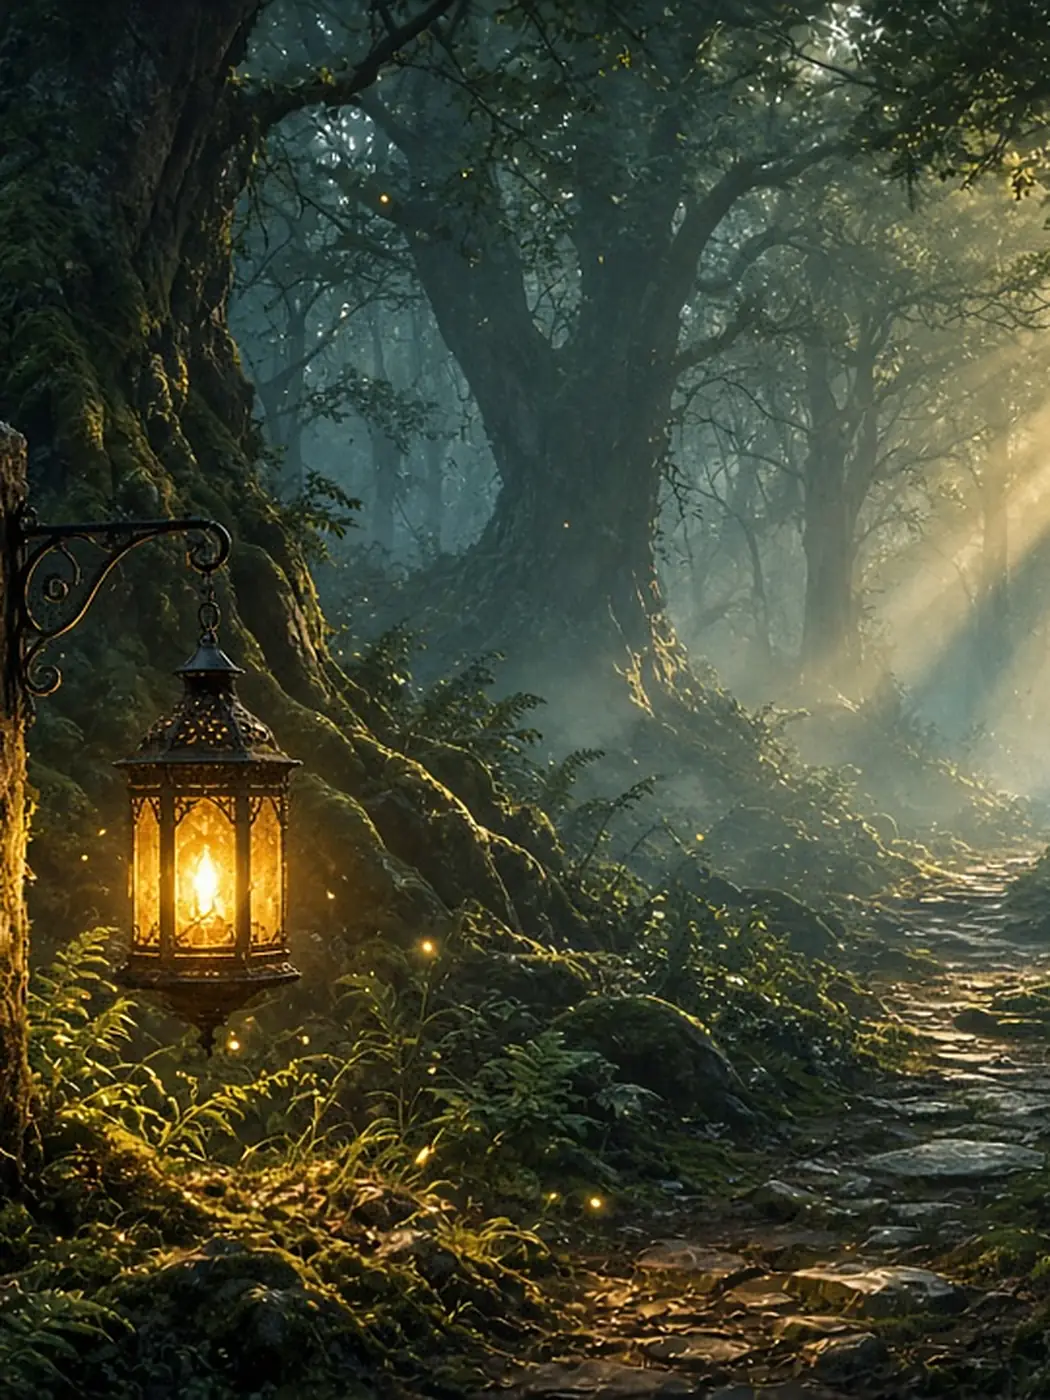
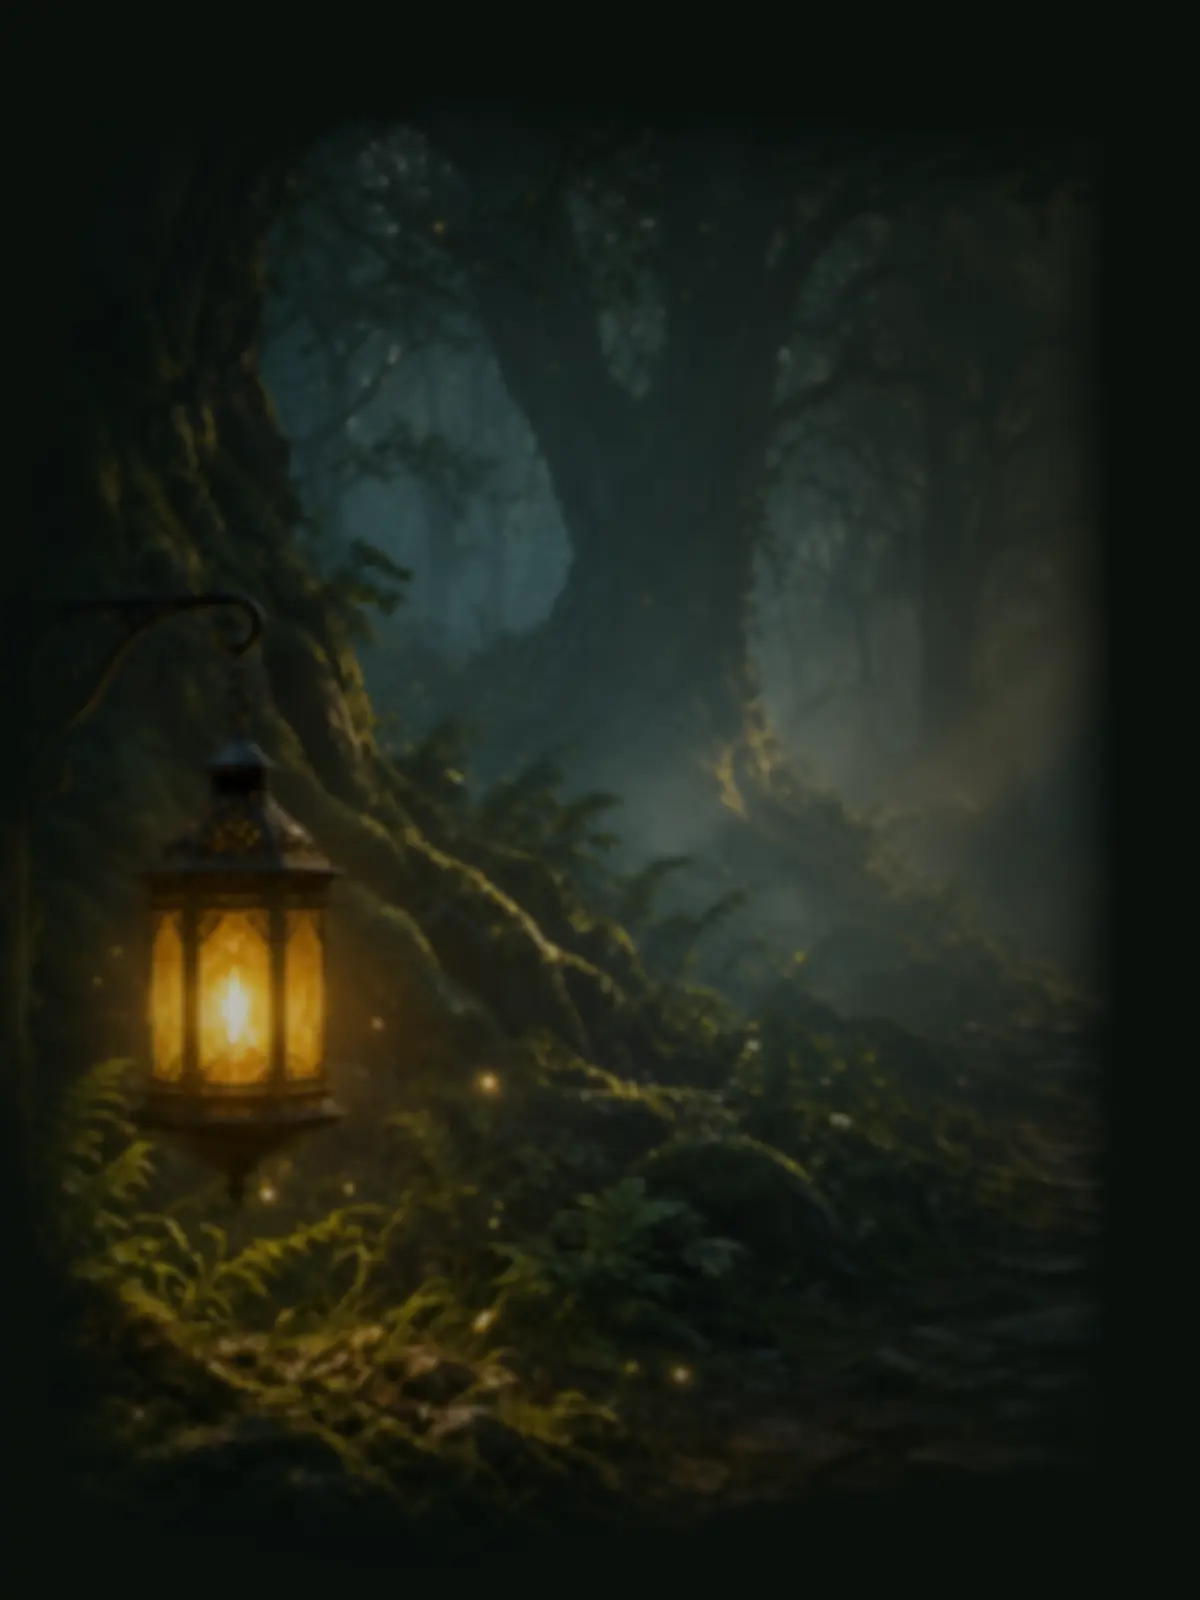
Preview: widen the About text panel to 1000px and replace the background with a Real-ESRGAN upscale, softened and darkened to blend into the page

diff --git a/about.html b/about.html
@@ -46,10 +46,10 @@
 
   <div class="about-bg" aria-hidden="true">
     <picture>
-      <source media="(max-width: 700px)" type="image/webp" srcset="images/backgrounds/about-forest-lantern-portrait.webp">
-      <source media="(max-width: 700px)" srcset="images/backgrounds/about-forest-lantern-portrait.jpg">
-      <source type="image/webp" srcset="images/backgrounds/about-forest-lantern.webp">
-      <img src="images/backgrounds/about-forest-lantern.jpg" alt="" width="2400" height="1350" decoding="async">
+      <source media="(max-width: 700px)" type="image/webp" srcset="images/backgrounds/about-forest-lantern-portrait.webp?v=2">
+      <source media="(max-width: 700px)" srcset="images/backgrounds/about-forest-lantern-portrait.jpg?v=2">
+      <source type="image/webp" srcset="images/backgrounds/about-forest-lantern.webp?v=2">
+      <img src="images/backgrounds/about-forest-lantern.jpg?v=2" alt="" width="2560" height="1440" decoding="async">
     </picture>
     <div class="about-veil"></div>
     <canvas class="motes"></canvas>

diff --git a/css/style.css b/css/style.css
@@ -1468,16 +1468,12 @@ body.lightbox-open {
   object-position: 30% 60%;
 }
 
-.about-bg img {
-  filter: saturate(0.95) brightness(0.85);
-}
 
 .about-veil {
   position: absolute;
   inset: 0;
   background:
-    radial-gradient(ellipse 75% 65% at 50% 45%, transparent 40%, rgba(4, 8, 6, 0.65) 100%),
-    linear-gradient(180deg, rgba(9, 15, 12, 0.45) 0%, rgba(9, 15, 12, 0.12) 40%, rgba(9, 15, 12, 0.5) 100%);
+    linear-gradient(180deg, rgba(9, 15, 12, 0.28) 0%, transparent 16%, transparent 84%, rgba(9, 15, 12, 0.35) 100%);
 }
 
 .about-bg .motes {
@@ -1500,9 +1496,10 @@ body.lightbox-open {
 }
 
 .about-panel {
-  max-width: 40rem;
+  max-width: 62.5rem; /* ~1000px; about 70% of a 1440px desktop */
+  width: 100%;
   margin: 0 auto;
-  padding: clamp(1.75rem, 4vw, 3rem) clamp(1.4rem, 4vw, 3.25rem);
+  padding: clamp(1.75rem, 4vw, 3rem) clamp(1.5rem, 5vw, 4.25rem);
   background: rgba(8, 13, 11, 0.8);
   -webkit-backdrop-filter: blur(6px);
   backdrop-filter: blur(6px);
